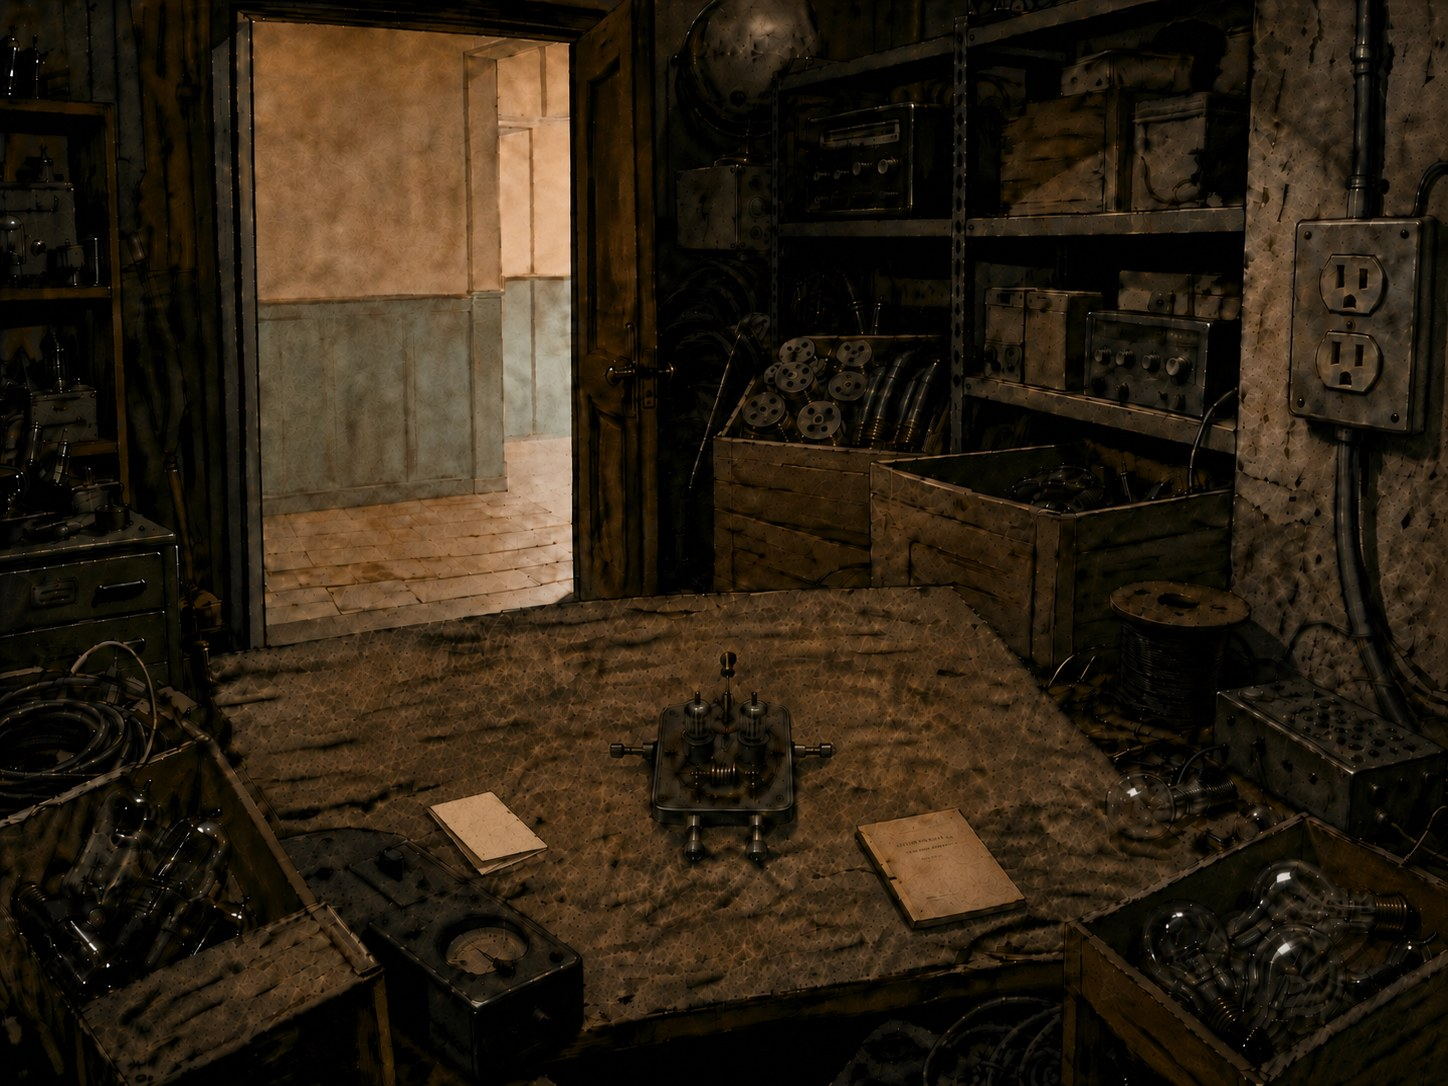
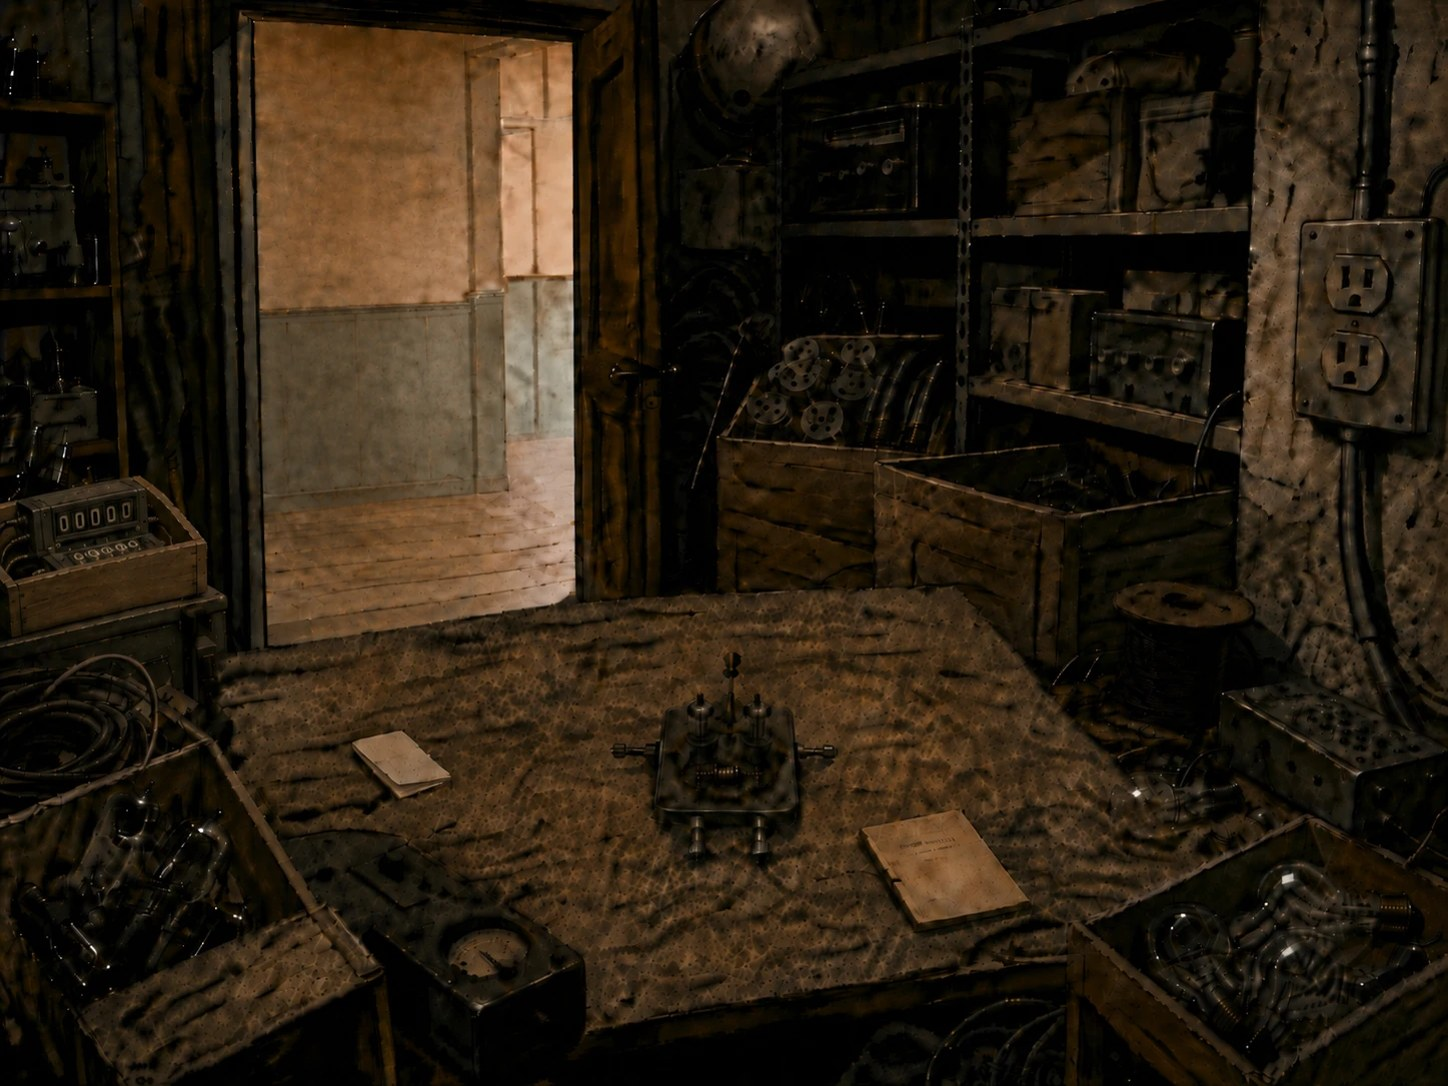
Add the 2.5 converter equipment: worktable art, zones, gate, info dialogs
Replace the last 2.5 slide with the worktable-with-converters art and add
two click-zones (top = bin→dec, bottom = dec→bin). Each opens a self-intro
dialog with the device's schematic (a 5:2 box, 6 decimal digits, a bus
stub on the reading/emitting side). Both must be examined before the tasks
note opens — otherwise "קודם כל תבדוק את כל הציוד החדש" (mirrors the 2.4
equipment gate). Items 5–6 (placeable converters + check-harness) next.

Claude-Session: https://claude.ai/code/session_01GXEdWPpe5FW6NXL8HuHPJg

diff --git a/js/app.js b/js/app.js
@@ -637,7 +637,9 @@
     // Routing-card requirements dialog (Mux/DMux) opened from the explanations menu.
     explRoutingInfo: null,
     componentMonologue: null,
+    converterInfo: null,
     busesEquipmentSeen: [],
+    arithConvertersSeen: [],
     busesNoteList: false,
     // The 2.5 arithmetic worktable note (halfAdder → fullAdder → Add4 → Add16).
     arithNoteList: false,
@@ -1020,6 +1022,7 @@
   const __componentVisuals = createComponentVisuals({ esc, gateComponentType, taskDefById, busGateSpec, savedCardMarkup });
   const componentSvgFilenameForType = (...args) => __componentVisuals.componentSvgFilenameForType(...args);
   const componentMarkup = (...args) => __componentVisuals.componentMarkup(...args);
+  const converterMarkup = (...args) => __componentVisuals.converterMarkup(...args);
   const smokeMarkup = (...args) => __componentVisuals.smokeMarkup(...args);
   const charredNandMarkup = (...args) => __componentVisuals.charredNandMarkup(...args);
 
@@ -1295,6 +1298,7 @@
       paceDialog: false,
       infoDialog: null,
       componentMonologue: null,
+      converterInfo: null,
       busesNoteList: false,
       arithNoteList: false,
       panelAnswer: null,
@@ -1420,7 +1424,7 @@
   function stateForStorageValue(value) {
     const workspace = normalizeWorkspace(value.workspace);
     workspace.selectedTerminal = null;
-    return { ...value, soundOn: false, dialog: null, taskDialog: null, notTest: null, hintDialog: null, hintSlides: null, solutionDialog: null, bitDialog: null, paceDialog: false, infoDialog: null, explRoutingInfo: null, componentMonologue: null, busesNoteList: false, arithNoteList: false, cardCreation: null, cardDeleteConfirm: null, binClearConfirm: false, noteClearConfirm: null, panelAnswer: null, wordsBytesDialog: null, workspace };
+    return { ...value, soundOn: false, dialog: null, taskDialog: null, notTest: null, hintDialog: null, hintSlides: null, solutionDialog: null, bitDialog: null, paceDialog: false, infoDialog: null, explRoutingInfo: null, componentMonologue: null, converterInfo: null, busesNoteList: false, arithNoteList: false, cardCreation: null, cardDeleteConfirm: null, binClearConfirm: false, noteClearConfirm: null, panelAnswer: null, wordsBytesDialog: null, workspace };
   }
 
   function stateForStorage() {
@@ -3289,6 +3293,28 @@
       </div>`;
   }
 
+  // The binary↔decimal converter self-introduction (items on the 2.5 worktable).
+  // Shows the device's line + its schematic (how it looks on the workbench).
+  function renderConverterInfoDialog() {
+    if (!state.converterInfo) return "";
+    const dir = state.converterInfo.dir === "out" ? "out" : "in";
+    const text = dir === "in"
+      ? "אני ממיר מבינרי לעשרוני. חבר אותי לבס, אני אציג לך את הכתוב העשרוני של המספר שמקודד בבס. בשולחן העבודה אני נראה כך:"
+      : "אני ממיר מעשרוני לבינרי. התאם את הספרות שעליי למספר שאתה רוצה, ואני אוציא בס עם הביטים שמתאימים למספר. בשולחן העבודה אני נראה כך:";
+    return `
+      <div class="bit-overlay" role="presentation">
+        <section class="bit-card component-monologue-card" role="dialog" aria-modal="false" aria-label="ממיר">
+          <div class="component-monologue-body">
+            <p>${esc(adaptGender(text))}</p>
+            <svg class="converter-schematic" viewBox="-150 -62 300 124" width="300" height="124" xmlns="http://www.w3.org/2000/svg">${converterMarkup(dir)}</svg>
+          </div>
+          <div class="bit-actions">
+            <button class="btn btn-primary" data-action="converter-info-ok" type="button">הבנתי</button>
+          </div>
+        </section>
+      </div>`;
+  }
+
   function renderPaceDialog() {
     if (!state.paceDialog) return "";
     return `
@@ -3398,6 +3424,7 @@
       ${renderBitDialog()}
       ${renderInfoDialog()}
       ${renderComponentMonologue()}
+      ${renderConverterInfoDialog()}
       ${renderBusesNoteList()}
       ${renderArithNoteList()}`;
 
@@ -9296,6 +9323,25 @@
     setState({ componentMonologue: null }, false);
   }
 
+  // The two binary↔decimal converters on the 2.5 worktable. Clicking one shows
+  // its self-introduction and marks it examined; both must be examined before the
+  // tasks note opens (mirrors the 2.4 bus/splitter equipment gate).
+  function openConverterInfo(dir) {
+    const d = dir === "out" ? "out" : "in";
+    const seen = Array.isArray(state.arithConvertersSeen) ? state.arithConvertersSeen : [];
+    const nextSeen = seen.includes(d) ? seen : [...seen, d];
+    setState({ converterInfo: { dir: d }, arithConvertersSeen: nextSeen }, false);
+  }
+
+  function closeConverterInfo() {
+    setState({ converterInfo: null }, false);
+  }
+
+  function arithConvertersChecked() {
+    const seen = Array.isArray(state.arithConvertersSeen) ? state.arithConvertersSeen : [];
+    return seen.includes("in") && seen.includes("out");
+  }
+
   function newEquipmentChecked() {
     const seen = Array.isArray(state.busesEquipmentSeen) ? state.busesEquipmentSeen : [];
     return seen.includes("bus") && seen.includes("splitter");
@@ -9567,6 +9613,11 @@
   };
 
   function openArithNote() {
+    // Examine both converters before the tasks note opens (mirrors the 2.4
+    // bus/splitter equipment gate, which is unconditional).
+    if (!arithConvertersChecked()) {
+      return setState({ infoDialog: "קודם כל תבדוק את כל הציוד החדש." });
+    }
     return setState({ arithNoteList: true });
   }
 
@@ -12086,6 +12137,9 @@
     if (action === "buses-crate-right") return openComponentMonologue("bus");
     if (action === "buses-crate-left") return openComponentMonologue("splitter");
     if (action === "component-monologue-ok") return closeComponentMonologue();
+    if (action === "arith-converter-in") return openConverterInfo("in");
+    if (action === "arith-converter-out") return openConverterInfo("out");
+    if (action === "converter-info-ok") return closeConverterInfo();
     if (action === "explanations") return openExplanationsMenu();
     if (action === "explanations-return") return returnFromExplanationsMenu();
     // Opening any explanation from the הסברים menu earns "למדן".

diff --git a/js/component-visuals.js b/js/component-visuals.js
@@ -260,5 +260,35 @@ function createComponentVisuals({ esc, gateComponentType, taskDefById, busGateSp
       </g>`;
   }
 
-  return { componentSvgFilenameForType, componentMarkup, smokeMarkup, charredNandMarkup };
+  // The binary↔decimal converter schematic. A 5:2 box with 6 decimal digit
+  // windows and one bus stub — on the LEFT for bin→dec ("in": reads a bus, shows
+  // its decimal value) or on the RIGHT for dec→bin ("out": set the digits, emits
+  // a bus). Centred on the origin; returns inner markup (wrap in <svg> for a
+  // dialog, or a board <g transform> for a placed component). `digits` is the
+  // 6-char display string; `active` marks the digit index being edited (dec→bin).
+  function converterMarkup(dir, options = {}) {
+    const digits = String(options.digits != null ? options.digits : "000000").padStart(6, "0").slice(-6);
+    const W = 200, H = 80, edge = W / 2;
+    const n = 6, dw = 24, gap = 4, dtot = n * dw + (n - 1) * gap, dx0 = -dtot / 2, dy = -14, dh = 28;
+    const ext = 46, half = 5.5;
+    const clickable = dir === "out" && options.interactive;
+    let s = `<rect x="${-edge}" y="${-H / 2}" width="${W}" height="${H}" rx="8" fill="#efe7d2" stroke="#2b2b2b" stroke-width="3" />`;
+    for (let i = 0; i < n; i++) {
+      const dxi = dx0 + i * (dw + gap);
+      // Digits read right-to-left as a number: index 0 is the most significant.
+      const ch = digits[i];
+      const on = clickable ? ` data-converter-digit="${i}"` : "";
+      const cursor = clickable ? ' style="cursor:pointer"' : "";
+      s += `<rect x="${dxi}" y="${dy}" width="${dw}" height="${dh}" rx="2" fill="#20241c" stroke="#000" stroke-width="1.2"${on}${cursor} />`;
+      s += `<text x="${dxi + dw / 2}" y="${dy + dh / 2 + 7}" text-anchor="middle" font-family="'Courier New',monospace" font-size="20" font-weight="900" fill="#8fe36a"${on}${cursor}>${ch}</text>`;
+    }
+    // The bus stub (thick dashed bar), left for "in", right for "out".
+    const bx1 = dir === "in" ? -edge - ext : edge;
+    const bx2 = dir === "in" ? -edge : edge + ext;
+    s += `<rect x="${bx1}" y="${-half}" width="${bx2 - bx1}" height="${half * 2}" fill="#111" />
+      <line x1="${bx1 + 3}" y1="0" x2="${bx2 - 3}" y2="0" stroke="#e9e2cf" stroke-width="2.4" stroke-dasharray="6 3" />`;
+    return s;
+  }
+
+  return { componentSvgFilenameForType, componentMarkup, converterMarkup, smokeMarkup, charredNandMarkup };
 }

diff --git a/index.html b/index.html
@@ -10,7 +10,7 @@
 </head>
 <body>
   <div id="app" class="app"></div>
-  <script src="js/data.js?v=v53-merge-1" defer></script>
+  <script src="js/data.js?v=v54-converters-1" defer></script>
   <script src="js/app-data.js?v=v80-achv-extract-1" defer></script>
   <script src="js/achievements-data.js?v=v2-achv-text-1" defer></script>
   <script src="js/achievement-icons.js?v=v2-trophy-redesign-1" defer></script>
@@ -19,7 +19,7 @@
   <script src="js/circuit-engine.js?v=v75-add16-1" defer></script>
   <script src="js/workbench-model.js?v=v70-bus-tasks-26" defer></script>
   <script src="js/workspace-state.js?v=v48-bus-tasks-4" defer></script>
-  <script src="js/component-visuals.js?v=v65-add16-gate-1" defer></script>
+  <script src="js/component-visuals.js?v=v66-converter-1" defer></script>
   <script src="js/toolbar-view.js?v=v65-nand-1" defer></script>
   <script src="js/workspace-chrome-view.js?v=v16-nand-teaser-1" defer></script>
   <script src="js/nand-monologue-view.js?v=v15-nand-1" defer></script>
@@ -30,7 +30,7 @@
   <script src="js/workspace-navigation.js?v=modularize-step16-1" defer></script>
   <script src="js/solution-workspaces.js?v=v75-add16-title-1" defer></script>
   <script src="js/splitter-resize.js?v=v1-splitter-drag-1" defer></script>
-  <script src="js/app.js?v=v201-anim-end-general-1" defer></script>
+  <script src="js/app.js?v=v202-converters-1" defer></script>
   <script src="js/warehouse-hotspots.js?v=v45-worktable-zones-1" defer></script>
   <script src="js/auth-config.js?v=v2-keys-1" defer></script>
   <script src="js/auth.js?v=v5-chip-restore-1" defer></script>

diff --git a/js/data.js b/js/data.js
@@ -854,6 +854,8 @@ const SCENES = {
         "read": "",
         "hotspots": [
           { "ariaLabel": "פתק המשימות", "action": "arith-tasks-note", "left": 18, "top": 65, "width": 15, "height": 15 },
+          { "ariaLabel": "הממיר העליון (בינרי לעשרוני)", "action": "arith-converter-in", "left": 1.5, "top": 45, "width": 10, "height": 7 },
+          { "ariaLabel": "הממיר התחתון (עשרוני לבינרי)", "action": "arith-converter-out", "left": 0, "top": 52.5, "width": 15, "height": 11 },
           { "ariaLabel": "חוברת התרגילים", "action": "binary-booklet", "left": 58.4, "top": 73.7, "width": 11.4, "height": 11.5 },
           { "ariaLabel": "הקש על Nand", "action": "return-to-nand-dialog", "left": 39, "top": 59, "width": 18, "height": 24 },
           { "ariaLabel": "האגף הימני של הארגז החדש", "action": "buses-crate-right", "left": 47, "top": 40, "width": 8, "height": 12 },